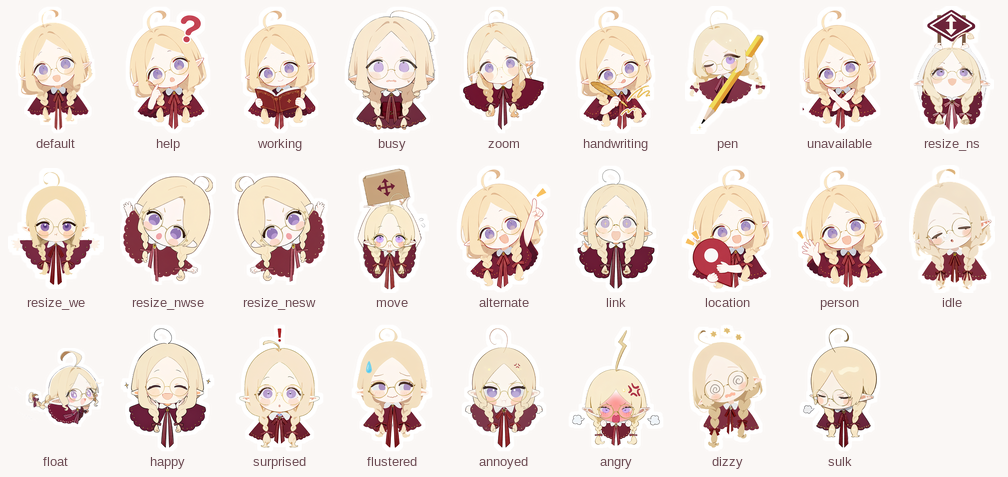
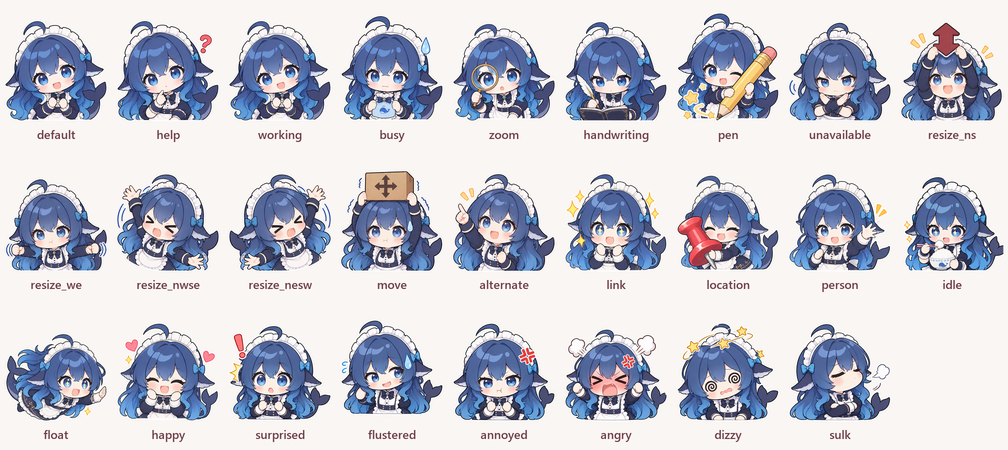
Redo the demo media with DeepSeek-chan and Claude-chan
Rendered offline with the app's motion numbers and the real Windows cursors; adds a picture of the three characters to every README.

diff --git a/README.ja.md b/README.ja.md
@@ -8,6 +8,8 @@
 
 > キャラクターは 3 人入ってるよ：白ごはんが大好きな青い大きな魚 DeepSeek娘、オレンジ色の星をそっと持って考えごとをする Claudeちゃん、それとわたしのオリキャラのハイン！設定画面で切り替えられるよ~
 
+<p align="center"><img src="docs/media/characters.png" alt="3 人のキャラクター"></p>
+
 ## ダウンロード
 
 [Releases](../../releases) から zip をダウンロードして、展開したら `MomPet.exe` を開くだけ！Windows 10 / 11 ならほかに何もインストールしなくて大丈夫。初めて開いたときに「Windows によって PC が保護されました」と出たら、「詳細情報」を押してから「実行」を押してね~
@@ -36,7 +38,7 @@
 
 **ぼーっとする**：マウスを 8 秒動かさないと、自分のことを始めるよ：DeepSeek娘は大きなお茶碗の白ごはんを食べて、Claudeちゃんはオレンジ色の星を持って考えごと、ハインはうとうと居眠りして頭から z が浮かぶよ。マウスを動かすとびくっとしちゃう！
 
-<p align="center"><img src="docs/media/idle.gif" width="420" alt="居眠りとびっくり"></p>
+<p align="center"><img src="docs/media/idle.gif" width="420" alt="ぼーっとしてびっくり"></p>
 
 **表情が変わる**：Windows の 16 種類のカーソルにそれぞれ表情があるよ。くるくるのときは忙しそうで、指のときは何かを指さして、禁止マークのときは腕でバツを作るよ~
 

diff --git a/README.en.md b/README.en.md
@@ -8,6 +8,8 @@ A little desktop pet for Windows that follows your mouse around~! Her face chang
 
 > Three characters come built in: DeepSeek-chan, the big blue fish who lives on plain rice; Claude-chan, who holds an orange spark while she thinks; and my own OC, Hein! Switch between them in the settings~
 
+<p align="center"><img src="docs/media/characters.png" alt="The three characters"></p>
+
 ## Download
 
 Grab the zip from [Releases](../../releases), unzip it and run `MomPet.exe`, that's it! Works on Windows 10 / 11 with nothing else to install. If Windows says "Windows protected your PC" the first time, click "More info" and then "Run anyway"~
@@ -36,7 +38,7 @@ When you click links and buttons she only gets as far as surprised, so everyday 
 
 **Idling**: leave the mouse still for 8 seconds and she does her own thing: DeepSeek-chan tucks into a big bowl of rice, Claude-chan holds her orange spark and thinks, and Hein dozes off with little z's floating up. Move the mouse and she jumps!
 
-<p align="center"><img src="docs/media/idle.gif" width="420" alt="Dozing off and waking up"></p>
+<p align="center"><img src="docs/media/idle.gif" width="420" alt="Idling and jumping awake"></p>
 
 **Changing faces**: each of the 16 Windows cursors has its own pose. With the spinning cursor she's busy, with the hand she points at things, and with the "unavailable" sign she crosses her arms into an X~
 

diff --git a/README.md b/README.md
@@ -8,6 +8,8 @@
 
 > 內建三個角色：吃白飯的藍色大肥魚 DeepSeek娘、捧著星芒想事情的 Claude小姐，還有我自己的 OC 海茵！在設定頁就能換~
 
+<p align="center"><img src="docs/media/characters.png" alt="三個角色"></p>
+
 ## 下載
 
 到 [Releases](../../releases) 下載 zip，解壓縮後點 `MomPet.exe` 就好啦！Windows 10 / 11 都能直接用，不用另外裝東西。第一次打開如果跳出「Windows 已保護您的電腦」，按「其他資訊」再按「仍要執行」就好~
@@ -36,7 +38,7 @@
 
 **發呆**：滑鼠 8 秒不動，她就開始做自己的事：DeepSeek娘捧著一大碗白飯吃，Claude小姐捧著橘色星芒想事情，海茵會打瞌睡、頭上飄 z。一動滑鼠她會被嚇一跳！
 
-<p align="center"><img src="docs/media/idle.gif" width="420" alt="睡著和嚇醒"></p>
+<p align="center"><img src="docs/media/idle.gif" width="420" alt="發呆和嚇一跳"></p>
 
 **換表情**：Windows 的 16 種游標每種都有對應的表情。轉圈圈的時候她在忙，變成手指的時候她在指東西，禁止符號的時候她會打叉叉~
 

diff --git a/README.zh-Hans.md b/README.zh-Hans.md
@@ -8,6 +8,8 @@
 
 > 内置三个角色：吃白饭的蓝色大肥鱼 DeepSeek娘、捧着星芒想事情的 Claude小姐，还有我自己的 OC 海茵！在设置里就能换~
 
+<p align="center"><img src="docs/media/characters.png" alt="三个角色"></p>
+
 ## 下载
 
 到 [Releases](../../releases) 下载 zip，解压后点 `MomPet.exe` 就好啦！Windows 10 / 11 都能直接用，不用另外装东西。第一次打开如果弹出「Windows 已保护你的电脑」，点「更多信息」再点「仍要运行」就好~
@@ -36,7 +38,7 @@
 
 **发呆**：鼠标 8 秒不动，她就开始做自己的事：DeepSeek娘捧着一大碗白饭吃，Claude小姐捧着橘色星芒想事情，海茵会打瞌睡、头上飘 z。一动鼠标她会被吓一跳！
 
-<p align="center"><img src="docs/media/idle.gif" width="420" alt="睡着和吓醒"></p>
+<p align="center"><img src="docs/media/idle.gif" width="420" alt="发呆和吓一跳"></p>
 
 **换表情**：Windows 的 16 种光标每种都有对应的表情。转圈圈的时候她在忙，变成手指的时候她在指东西，禁止符号的时候她会打叉叉~
 
